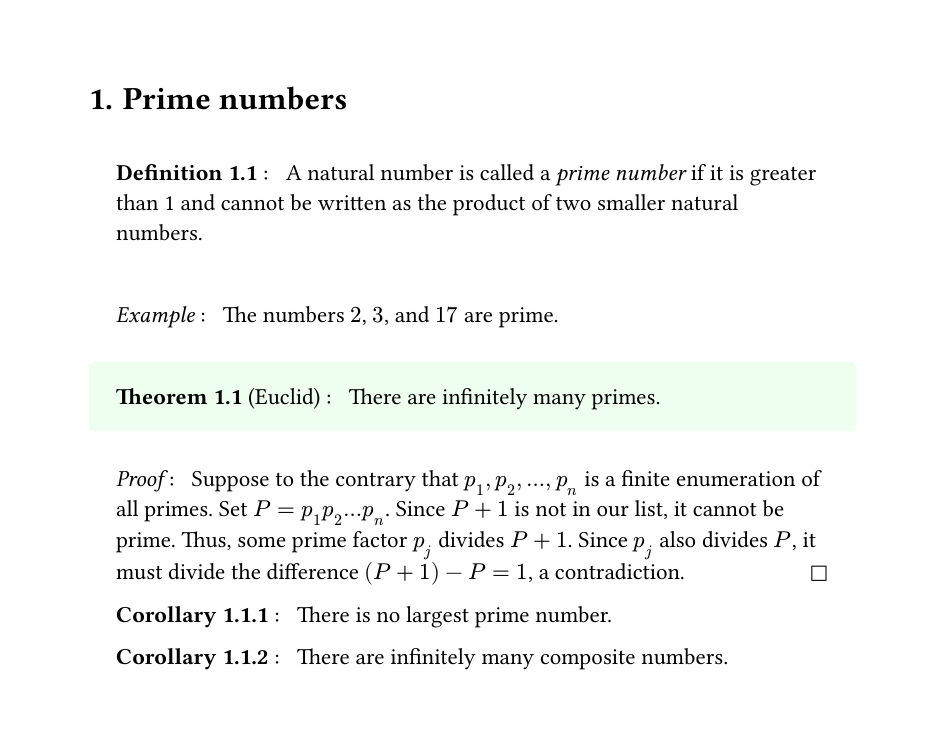
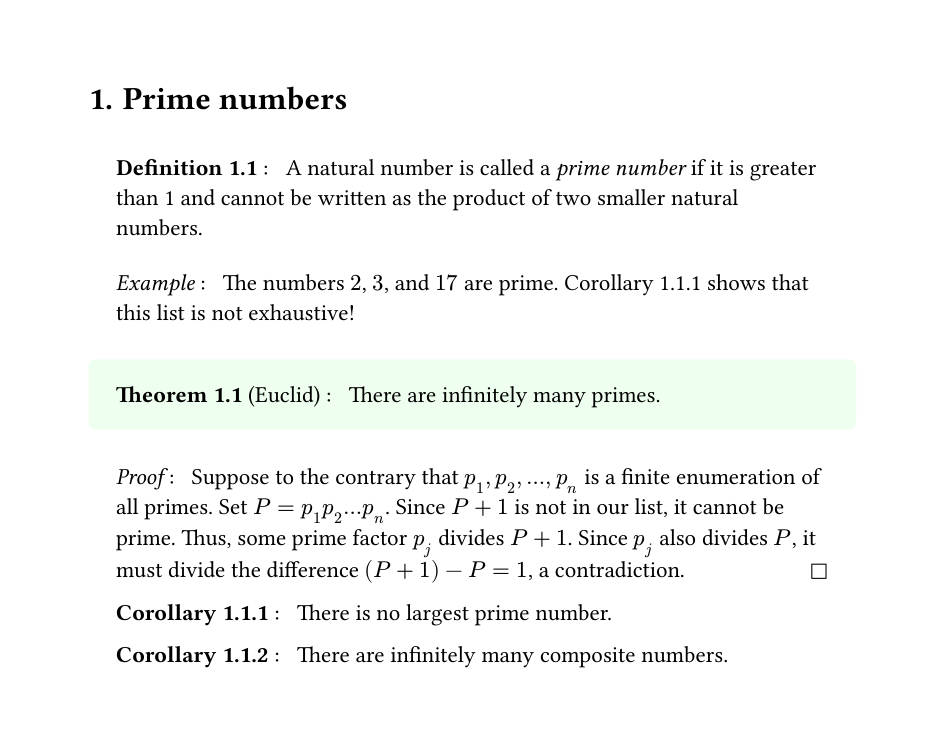
Added referencing using labels

diff --git a/README.md b/README.md
@@ -4,10 +4,19 @@ An implementation of numbered theorem environments in
 [typst](https://github.com/typst/typst).
 Copy and import the [theorems.typ](theorems.typ) file to use in your own projects.
 
+### Features
+- Numbered theorem environments can be created and customized.
+- Environment counters can be _attached_ (just as subheadings are attached to headings) to other environments, headings, or keep a global count.
+- Environment numbers can be referenced, via `#thmref(<label>)`.
+ Currently, the `<label>` must be placed _inside_ the environment.
+
+## Examples
+
 Minimal example below; also see [example.typ](example.typ) ([render](example.pdf)) for a demonstration of more features, and [differential_calculus.typ](differential_calculus.typ) ([render](differential_calculus.pdf)) for a practical use case.
 
 ![basic example](basic.png)
 
+### Preamble
 ```
 #import "theorems.typ": *
 
@@ -21,7 +30,7 @@ Minimal example below; also see [example.typ](example.typ) ([render](example.pdf
   base: "theorem",
   titlefmt: strong
 )
-#let definition = thmbox("definition", "Definition")
+#let definition = thmbox("definition", "Definition", inset: (x: 1.2em, top: 1em))
 
 #let example = thmplain("example", "Example").with(numbering: none)
 #let proof = thmplain(
@@ -30,15 +39,21 @@ Minimal example below; also see [example.typ](example.typ) ([render](example.pdf
   base: "theorem",
   bodyfmt: body => [#body #h(1fr) $square$]
 ).with(numbering: none)
+```
 
-
+### Document
+```
 = Prime numbers
 
 #definition[
   A natural number is called a _prime number_ if it is greater than 1
   and cannot be written as the product of two smaller natural numbers.
 ]
-#example[The numbers $2$, $3$, and $17$ are prime.]
+#example[
+  The numbers $2$, $3$, and $17$ are prime.
+  Corollary #thmref(<cor_largest_prime>) shows that this list is not
+  exhaustive!
+]
 
 #theorem(name: "Euclid")[
   There are infinitely many primes.
@@ -51,7 +66,12 @@ Minimal example below; also see [example.typ](example.typ) ([render](example.pdf
   contradiction.
 ]
 
-#corollary[There is no largest prime number.]
-#corollary[There are infinitely many composite numbers.]
+#corollary[
+	There is no largest prime number. <cor_largest_prime>
+]
+#corollary[
+  There are infinitely many composite numbers.
+]
+
 ```
 
